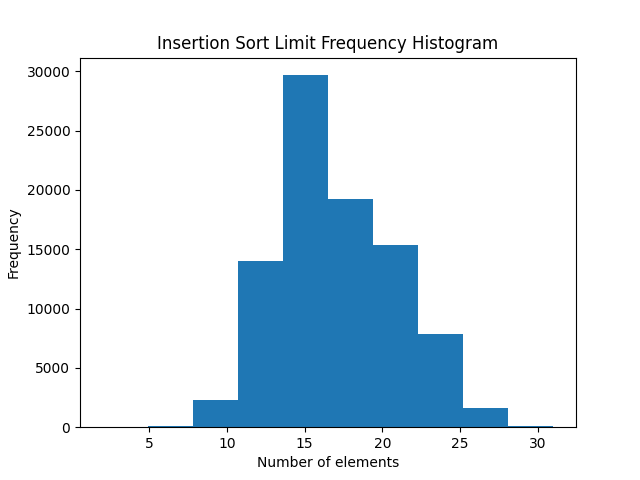
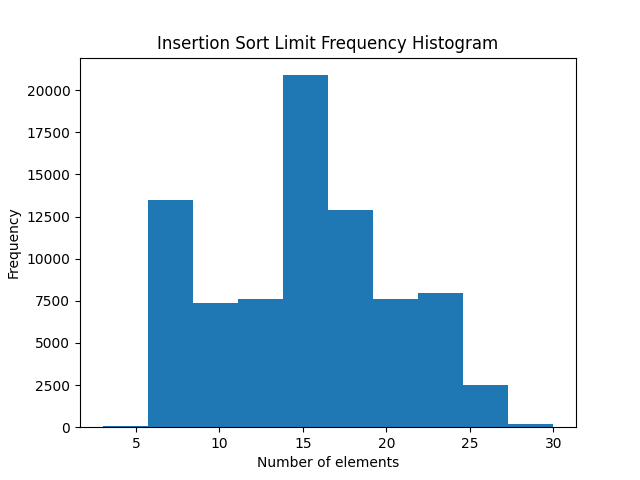
Final changes to the quick insert sort limit and one final test run.

diff --git a/quick_insert_sort.py b/quick_insert_sort.py
@@ -46,7 +46,7 @@ def quick_insert_sort(array, low, high, pivot_count):
     try:
         if low < high:
             pivot_count += 1
-            if pivot_count >= 0.0122 * array.size:
+            if pivot_count >= 0.0142 * array.size:
                 # print("PC : ",pivot_count)
                 insertion_sort(array[low:high+1])
             else:
